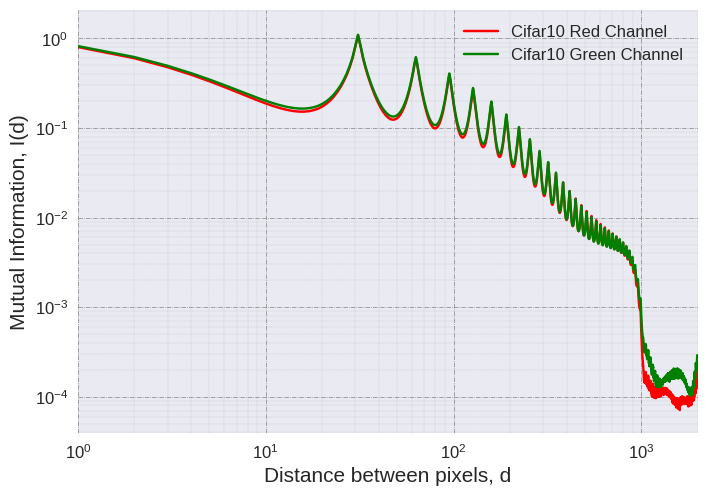
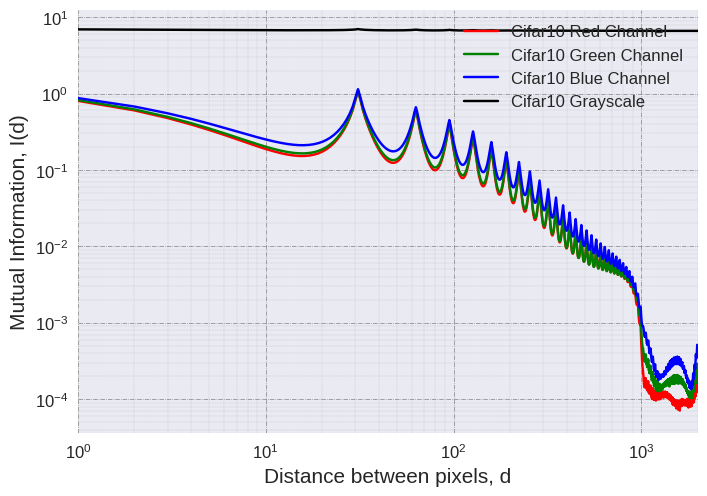
Up

diff --git a/paper_related/cifar10/plot_cifar10.py b/paper_related/cifar10/plot_cifar10.py
@@ -4,7 +4,7 @@ import seaborn as sns
 import matplotlib.pyplot as plt
 import numpy as np
 
-filenames = ["cifar10_red", "cifar10_green"] #"cifar10_blue", "cifar10_gray"]
+filenames = ["cifar10_red", "cifar10_green", "cifar10_blue", "cifar10_gray"]
 all_mi = []
 
 for filename in filenames:
@@ -44,8 +44,8 @@ for filename in filenames:
 with plt.style.context(('seaborn')):
     plt.loglog(np.arange(len(all_mi[0])), all_mi[0], 'r-', label='Cifar10 Red Channel')
     plt.loglog(np.arange(len(all_mi[1])), all_mi[1], 'g-', label='Cifar10 Green Channel')
-    #plt.loglog(np.arange(len(all_mi[2])), all_mi[2], 'b-', label='Cifar10 Blue Channel')
-    #plt.loglog(np.arange(len(all_mi[3])), all_mi[3], 'k-', label='Cifar10 Grayscale')
+    plt.loglog(np.arange(len(all_mi[2])), all_mi[2], 'b-', label='Cifar10 Blue Channel')
+    plt.loglog(np.arange(len(all_mi[3])), all_mi[3], 'k-', label='Cifar10 Grayscale')
 
     plt.tick_params(labelsize='large', width=5)
     plt.grid(True)
